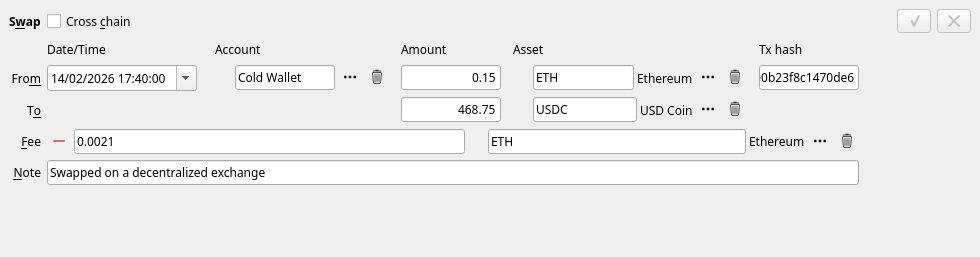
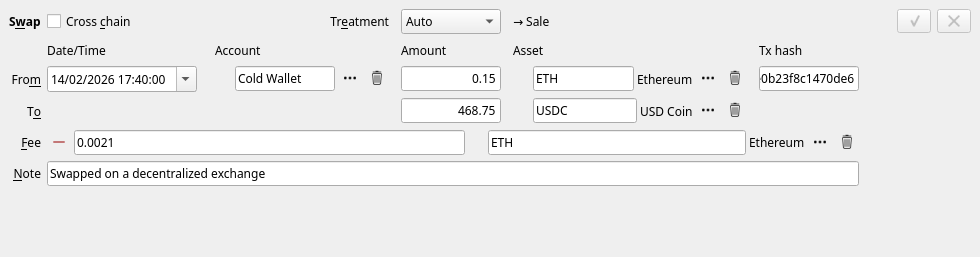
Manual for swap operation treatment was updated

diff --git a/tools/manual/make_demo_db.py b/tools/manual/make_demo_db.py
@@ -160,6 +160,9 @@ def create_assets() -> dict:
     # A receipt token names its venue; the attribute has no setter of its own, it is entered by hand in the asset dialog
     JalDB._exec("INSERT INTO asset_data(asset_id, datatype, value) VALUES(:a, :t, 'Aave v3')",
                 [(":a", assets['ausdc']), (":t", AssetData.Protocol)], commit=True)
+    # A stablecoin names the currency it is pegged to, which makes a swap into it a sale
+    JalDB._exec("INSERT INTO asset_data(asset_id, datatype, value) VALUES(:a, :t, :usd)",
+                [(":a", assets['usdc']), (":t", AssetData.PeggedTo), (":usd", USD)], commit=True)
     return assets
 
 

diff --git a/docs/manual/08-crypto.md b/docs/manual/08-crypto.md
@@ -82,13 +82,15 @@ after all.
 ## The four crypto operations
 
 Beside the ordinary Buy/Sell and Transfer, crypto needs four more. For the three that move value,
-two questions decide which one fits: **was the asset disposed of at a market price, or does its cost
-simply carry over?** and **did it stay on one account, or cross to another?**
+two questions decide which one fits: **is it the same position in another form, or an exchange for
+another asset?** and **did it stay on one account, or cross to another?**
 
-|  | cost carried over | disposed of at market |
+|  | the same position in another form | an exchange for another asset |
 |---|---|---|
 | **one account, one moment** | **Wrapping** | **Swap** |
 | **two accounts, two moments** | **Bridge** (same asset only) | **Swap** with *Cross chain* |
+
+A swap is then booked one of two ways, a sale or a conversion - see below.
 
 The fourth, **Action**, records a transaction that moved no value at all.
 
@@ -107,8 +109,27 @@ underlined figure is a rounded one you can hover over to see in full; both are e
 ![The swap editor](img/op_swap.png)
 
 You gave up X of one asset and received Y of another, at whatever rate the market gave you: ETH for
-USDC on a decentralised exchange. It is a sale and a purchase in one, and it **realises a profit or a
-loss** on what you gave up, exactly as selling for cash would.
+USDC on a decentralised exchange. What JAL books depends on what the swap **means**, and the
+**Treatment** box says which:
+
+* **Sale** — you sold for money, or bought with it: ETH for USDC, or USDC for ETH. The asset you gave
+  up is sold at its market value and its **profit or loss is realised**, exactly as selling for cash
+  would; what you received starts as a new purchase, at that value and on that date.
+* **Conversion** — you moved from one investment to another: ETH for UNI, ARB for ETH. Nothing is
+  realised. The asset you received takes over the **cost and the purchase dates** of what you gave
+  up, as a wrapping does, and the result shows only when you finally sell. Its deals are not listed
+  in the Deals report.
+* **Auto** (the default, and what imports use) — a sale when either asset is a stablecoin, that is,
+  an asset with the **pegged to** attribute (see [chapter 6](06-investments.md#assets-and-their-listings));
+  a conversion otherwise. The editor shows what *Auto* resolves to beside the box, and the row of a
+  conversion reads *Swap (conversion)*.
+
+Mark each stablecoin you hold as **pegged to** its currency (USDC and USDT to USD, say) once: every
+*Auto* swap into or out of it becomes a sale, past ones included, and JAL rebuilds its figures from
+the first of them. Choose *Sale* or *Conversion* on a single swap when it should differ.
+
+This is JAL's own view of your investments — holdings, deals, P&L. A tax authority may see the same
+swap differently, and the tax reports do not read swaps yet.
 
 Press **+** next to **Fee** to record the gas, and choose the coin it was paid in. Tick **Cross chain** when what you
 received arrived on a *different* account (a different chain) and possibly minutes later — the lower
@@ -135,8 +156,9 @@ A protocol that gives **no receipt token** back — Aave v4 — has nothing to w
 a transfer into a staked position instead, see
 [Lending with no receipt token](#lending-with-no-receipt-token-aave-v4).
 
-Choosing *Wrapping* where a *Swap* belongs (or the other way round) is the one modelling mistake
-here that matters, because it decides whether a taxable profit exists.
+Choosing *Wrapping* where a *Swap* belongs (or the other way round) is the modelling mistake that
+matters most here, together with a stablecoin left without its *pegged to* attribute: both decide
+whether a profit is realised.
 
 ### Bridge — the same asset, another chain
 

diff --git a/docs/manual/06-investments.md b/docs/manual/06-investments.md
@@ -53,7 +53,7 @@ Select one and press the **…** button to open it:
 | **Asset name** | The full name of the company or fund. |
 | **Type** | *Shares*, *Bonds*, *ETFs*, *Funds*, *Commodities*, *Derivatives*, *Forex*, *Crypto-currency*, *Money*. |
 | **Country** | Where the issuer is registered. Tax reports care about this. |
-| **Asset attributes** | Extra facts: a bond's *principal*, an *expiry* date, a *tag*, a CoinGecko id for a coin, the *protocol* a receipt token belongs to (see [chapter 8](08-crypto.md#wrapped-positions)), and *rebasing* for a receipt token whose quantity grows on its own. An Aave v3 aToken gets both when it is first imported; set *rebasing* on another such token yourself, and saving the asset then offers to book apart the interest left inside its earlier wrappings. |
+| **Asset attributes** | Extra facts: a bond's *principal*, an *expiry* date, a *tag*, a CoinGecko id for a coin, the *protocol* a receipt token belongs to (see [chapter 8](08-crypto.md#wrapped-positions)), *pegged to* — the currency a stablecoin follows, which makes a swap into or out of it a sale (see [chapter 8](08-crypto.md#swap--one-asset-exchanged-for-another)) — and *rebasing* for a receipt token whose quantity grows on its own. An Aave v3 aToken gets both when it is first imported; set *rebasing* on another such token yourself, and saving the asset then offers to book apart the interest left inside its earlier wrappings. |
 | **Symbols** | The listings: ticker, currency, exchange. **The exchange decides where prices are downloaded from.** |
 | **Identifiers** | ISIN, CUSIP, FIGI, contract addresses — how the asset is named in statements and on chains. |
 

diff --git a/docs/manual/14-glossary.md b/docs/manual/14-glossary.md
@@ -63,6 +63,9 @@ corporate action, a wrapping, a swap, a bridge, an action.
 
 **Peer** — the other party to an operation: a shop, an employer, a bank, a person.
 
+**Pegged to** — an attribute of a stablecoin naming the currency it follows (USDC: USD). A swap
+with such an asset on either side is a sale by default.
+
 **Pending / unsettled** — a movement that knows only one of its two ends. Listed in the *Unsettled
 transfers* report until you say what the other end was.
 
@@ -94,8 +97,9 @@ tax calculations use it rather than the trade date.
 issues no receipt token (Aave v4), but are still yours. Kept as an account of its own; see the
 *Staked positions* report.
 
-**Swap** — an operation exchanging one asset for another at a market rate, on one account. It
-**realises** a profit or a loss. Compare *wrapping*.
+**Swap** — an operation exchanging one asset for another, on one account or across two chains. A
+*sale* swap **realises** a profit or a loss; a *conversion* swap carries the cost and purchase dates
+over, as a wrapping does. *Auto* chooses by the *pegged to* attribute. Compare *wrapping*.
 
 **Symbol** — see *listing*.
 

diff --git a/docs/manual/10-reports.md b/docs/manual/10-reports.md
@@ -78,7 +78,8 @@ Every position you have **closed**, with the profit it produced:
 ![The deals report](img/report_deals.png)
 
 One line per closed deal: when it was opened and closed, at what prices, the quantity, the fees, and
-the profit in money and per cent. **Group by** can group them by asset, by the date they were opened
+the profit in money and per cent. A swap booked as a conversion closes nothing here: its result
+appears on the deal that finally sells what it bought. **Group by** can group them by asset, by the date they were opened
 or closed, or by combinations of those. The **Total** at the bottom is the realised profit for the
 period — the figure most tax authorities are interested in.
 

diff --git a/docs/manual/01-what-is-jal.md b/docs/manual/01-what-is-jal.md
@@ -53,7 +53,7 @@ An **operation** is one thing that happened. JAL has ten kinds:
 | **Asset Income** | The asset itself arriving: a stock dividend, vested shares, a staking reward |
 | **Corporate Action** | A company changing your shares: a split, a merger, a spin-off |
 | **Wrapping** | One asset becoming another with the price you paid carried across — a deposit into a protocol and back |
-| **Swap** | One asset exchanged for another, on one account, at a market price |
+| **Swap** | One asset exchanged for another |
 | **Bridge** | The same asset moving from one blockchain to another |
 | **Action** | A blockchain transaction that moved nothing but still cost gas: an approval, a failed call |
 
